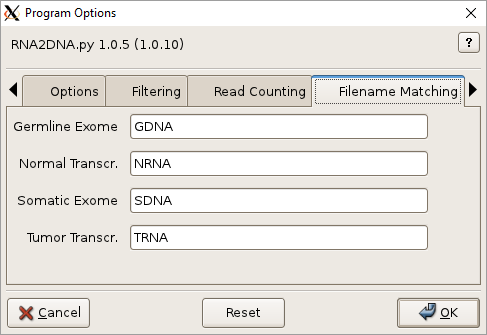
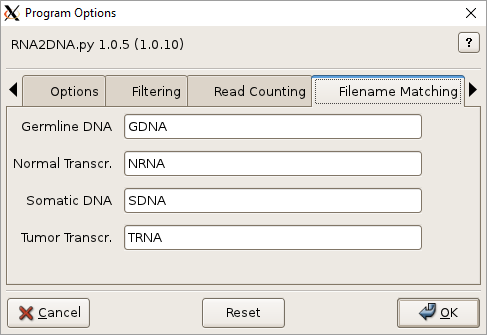
Documentation

diff --git a/RNA2DNA/src/RNA2DNA.py b/RNA2DNA/src/RNA2DNA.py
@@ -81,15 +81,15 @@ exfilt.add_option("-e", "--exoncoords", type="file", dest="exoncoords", default=
                   help="Exon coordinates for SNV filtering. Optional.", name="Exon Coords.",
                   remember=True,
                   filetypes=[("Exonic Coordinates", "*.txt")])
-regexs.add_option("--normalexomere", type="str", dest="normalexomere", default='GDNA',
-                  help="Germline/Normal exome filename regular expression. Default: GDNA.",
-                  remember=True, name="Germline Exome")
+regexs.add_option("--normaldnare", type="str", dest="normaldnare", default='GDNA',
+                  help="Germline/Normal DNA filename regular expression. Default: GDNA.",
+                  remember=True, name="Germline DNA")
 regexs.add_option("--normaltransre", type="str", dest="normaltransre", default='NRNA',
                   help="Normal transcriptome filename regular expression. Default: NRNA.",
                   remember=True, name="Normal Transcr.")
-regexs.add_option("--tumorexomere", type="str", dest="tumorexomere", default='SDNA',
-                  help="Somatic/Tumor exome filename regular expression. Default: SDNA.",
-                  remember=True, name="Somatic Exome")
+regexs.add_option("--tumordnare", type="str", dest="tumordnare", default='SDNA',
+                  help="Somatic/Tumor DNA filename regular expression. Default: SDNA.",
+                  remember=True, name="Somatic DNA")
 regexs.add_option("--tumortransre", type="str", dest="tumortransre", default='TRNA',
                   help="Tumor transcriptome filename regular expression. Default: TRNA.",
                   remember=True, name="Tumor Transcr.")
@@ -195,9 +195,9 @@ if opt.darned:
     args.extend(["--darned", opt.darned])
 if opt.cosmic:
     args.extend(["--cosmic", opt.cosmic])
-args.extend(["--normalexomere",opt.normalexomere])
+args.extend(["--normaldnare",opt.normaldnare])
 args.extend(["--normaltransre",opt.normaltransre])
-args.extend(["--tumorexomere",opt.tumorexomere])
+args.extend(["--tumordnare",opt.tumordnare])
 args.extend(["--tumortransre",opt.tumortransre])
 
 execprog("snv_computation", *args)

diff --git a/RNA2DNA/src/snv_computation.py b/RNA2DNA/src/snv_computation.py
@@ -30,15 +30,15 @@ parser.add_option("--cosmic", type="file", dest="cosmic", default=None,
 parser.add_option("--darned", type="file", dest="darned", default=None,
                   help="DARNED annotations.",
                   filetypes=[("DARNED Annotations", "*.txt")])
-regexs.add_option("--normalexomere", type="str", dest="normalexomere", default=r'GDNA',
-                  help="Germline/Normal exome filename regular expression. Default: GDNA.",
-                  remember=True, name="Germline Exome RE")
+regexs.add_option("--normaldnare", type="str", dest="normaldnare", default=r'GDNA',
+                  help="Germline/Normal DNA filename regular expression. Default: GDNA.",
+                  remember=True, name="Germline DNA RE")
 regexs.add_option("--normaltransre", type="str", dest="normaltransre", default=r'NRNA',
                   help="Normal transcriptome filename regular expression. Default: NRNA.",
                   remember=True, name="Normal Transcr. RE")
-regexs.add_option("--tumorexomere", type="str", dest="tumorexomere", default=r'SDNA',
-                  help="Somatic/Tumor exome filename regular expression. Default: SDNA.",
-                  remember=True, name="Somatic Exome RE")
+regexs.add_option("--tumordnare", type="str", dest="tumordnare", default=r'SDNA',
+                  help="Somatic/Tumor DNA filename regular expression. Default: SDNA.",
+                  remember=True, name="Somatic DNA RE")
 regexs.add_option("--tumortransre", type="str", dest="tumortransre", default=r'TRNA',
                   help="Tumor transcriptome filename regular expression. Default: TRNA.",
                   remember=True, name="Tumor Transcr. RE")
@@ -46,9 +46,9 @@ parser.add_option_group(regexs)
 
 opt, args = parser.parse_args()
 regex = {}
-regex["GDNA"] = opt.normalexomere
+regex["GDNA"] = opt.normaldnare
 regex["NRNA"] = opt.normaltransre
-regex["SDNA"] = opt.tumorexomere
+regex["SDNA"] = opt.tumordnare
 regex["TRNA"] = opt.tumortransre
 
 progress = ProgressText()

diff --git a/RNA2DNA/README.md b/RNA2DNA/README.md
@@ -1,20 +1,22 @@
 
-RNA2DNA evaluates evidence of allelic imbalance and asymmetry in next-gen
-sequencing reads of exomes and RNA from normal and tumor samples from
-the same individual. RNA2DNA requires, as input: genome aligned reads
-and SNV loci to analyze. Reads from each analysis type and sample must
-be aligned to the same genomic coordinates. SNVs may be derived from
-the reads directly, using, for example, TopHat2 and samtools, or they
-may be derived from independent sources.
+RNA2DNA evaluates evidence for asymmetric allele distribution in
+next-gen sequencing reads of DNA and RNA samples from the same
+individual. RNA2DNA requires, as input: genome aligned reads and SNV
+loci to analyze. Reads from each analysis type and sample must be
+aligned to the same version of the human genome reference. SNVs may be
+derived from the reads directly, using, for example, Samtools, or they
+may be derived from independent sources, such as lists of known
+annotated variants. Variant positions must correspond to genomic
+coordinates of the reference genome used for the alignment.
 
 RNA2DNA is available as a self-contained binary package for 64-bit Linux
 systems and as Python source. The
-[pysam](https://github.com/pysam-developers/pysam) package, plus a variety of common third-party python packages  including numpy and scipy must be
+pysam package, plus a variety of common third-party python packages  including numpy and scipy must be
 installed to use in Python source form. See the install instructions for
 more details. The self-contained binary package is appropriate for most
 Linux users.
 
-[Download](https://github.com/HorvathLab/NGS/releases/) and [Install](docs/Installation.md).
+[Download](https://github.com/HorvathLab/NGS/releases/) and [Installation](docs/Installation.md).
 
 Usage:
 * [RNA2DNA](docs/Usage.md)

diff --git a/RNA2DNA/docs/Usage.md b/RNA2DNA/docs/Usage.md
@@ -15,7 +15,7 @@
 ## Description
 
 RNA2DNA evaluates evidence of allelic imbalance and asymmetry in next-gen
-sequencing reads of exomes and RNA from normal and tumor samples from
+sequencing reads of DNA and RNA from normal and tumor samples from
 the same individual.
 
 ## Graphical User Interface
@@ -95,17 +95,17 @@ Quiet, -q, --quiet
 
 ![Filename Matching](RNA2DNA4.png)
 
-Germline Exome, --normalexomere=NORMALEXOMERE
+Germline DNA, --normaldnare=NORMALDNARE
 
-> Germline/Normal exome filename regular expression. Default: GDNA.
+> Germline/Normal DNA filename regular expression. Default: GDNA.
 
 Normal Transcr., --normaltransre=NORMALTRANSRE 
 
 > Normal transcriptome filename regular expression. Default: NRNA.
 
-Somatic Exome, --tumorexomere=TUMOREXOMERE      
+Somatic DNA, --tumordnare=TUMORDNARE      
 
-> Somatic/Tumor exome filename regular expression. Default: SDNA.
+> Somatic/Tumor DNA filename regular expression. Default: SDNA.
 
 Tumor Transcr., --tumortransre=TUMORTRANSRE
 
